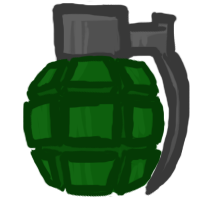
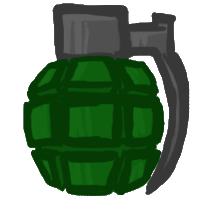
BleedingDetectSystem adjusted for varying Lifevalues, Grenade implemented, Problem with offset calculation, pls help

diff --git a/todo.md b/todo.md
@@ -24,12 +24,13 @@ TODO
 
 ### Code
 - Fullscreen support
-- SlowMotionSystem (?) Wie zur hoelle willste das machen? Alle Systems werden im Engine ausgefuehrt, welcher zu der Zeit schon die dt uebergeben hat. Was du machen willst, waere ziemlicher Brainfuck, da man zwischen den update Call vom Engine ein System basteln muesste. Dann wuerden wir Slowmo fest im Engine verankern und das ist glaube ich nicht die Idee vom Engine oder? 
+    - SlowMotionSystem (?) Wie zur hoelle willste das machen? Alle Systems werden im Engine ausgefuehrt, welcher zu der Zeit schon die dt uebergeben hat. Was du machen willst, waere ziemlicher Brainfuck, da man zwischen den update Call vom Engine ein System basteln muesste. Dann wuerden wir Slowmo fest im Engine verankern und das ist glaube ich nicht die Idee vom Engine oder? 
 - Schadenssystem ausfeilen
+- Menufunctions extern in ne Table reinpacken und ein Boxmodel erstellen. 2 Boxmodels. Einmal fuer menu und einemal fuer item. Fertiges Layout fuer den Shop entwerfen.
 - Shop System bauen 
     - Table fuer Waffen erstellen, Funktion schreiben, die sich den Status aus der Tabelle holt.
     - ItemComponent fuer Playercutie erstellen und mit Tabelle verlinken
-
+- Grenade Rotation
 
 ## BUGS
 - Fehler Tritt auf, wenn Playercutie destroyed werden soll.
@@ -43,6 +44,3 @@ TODO
         main.lua:54: in function 'update'
         [string "boot.lua"]:407: in function <[string "boot.lua"]:373>
         [C]: in function 'xpcall'
-
-
-Gui Draw + scaling update problem. kein dt in draw. draw nach update auslagen ?
